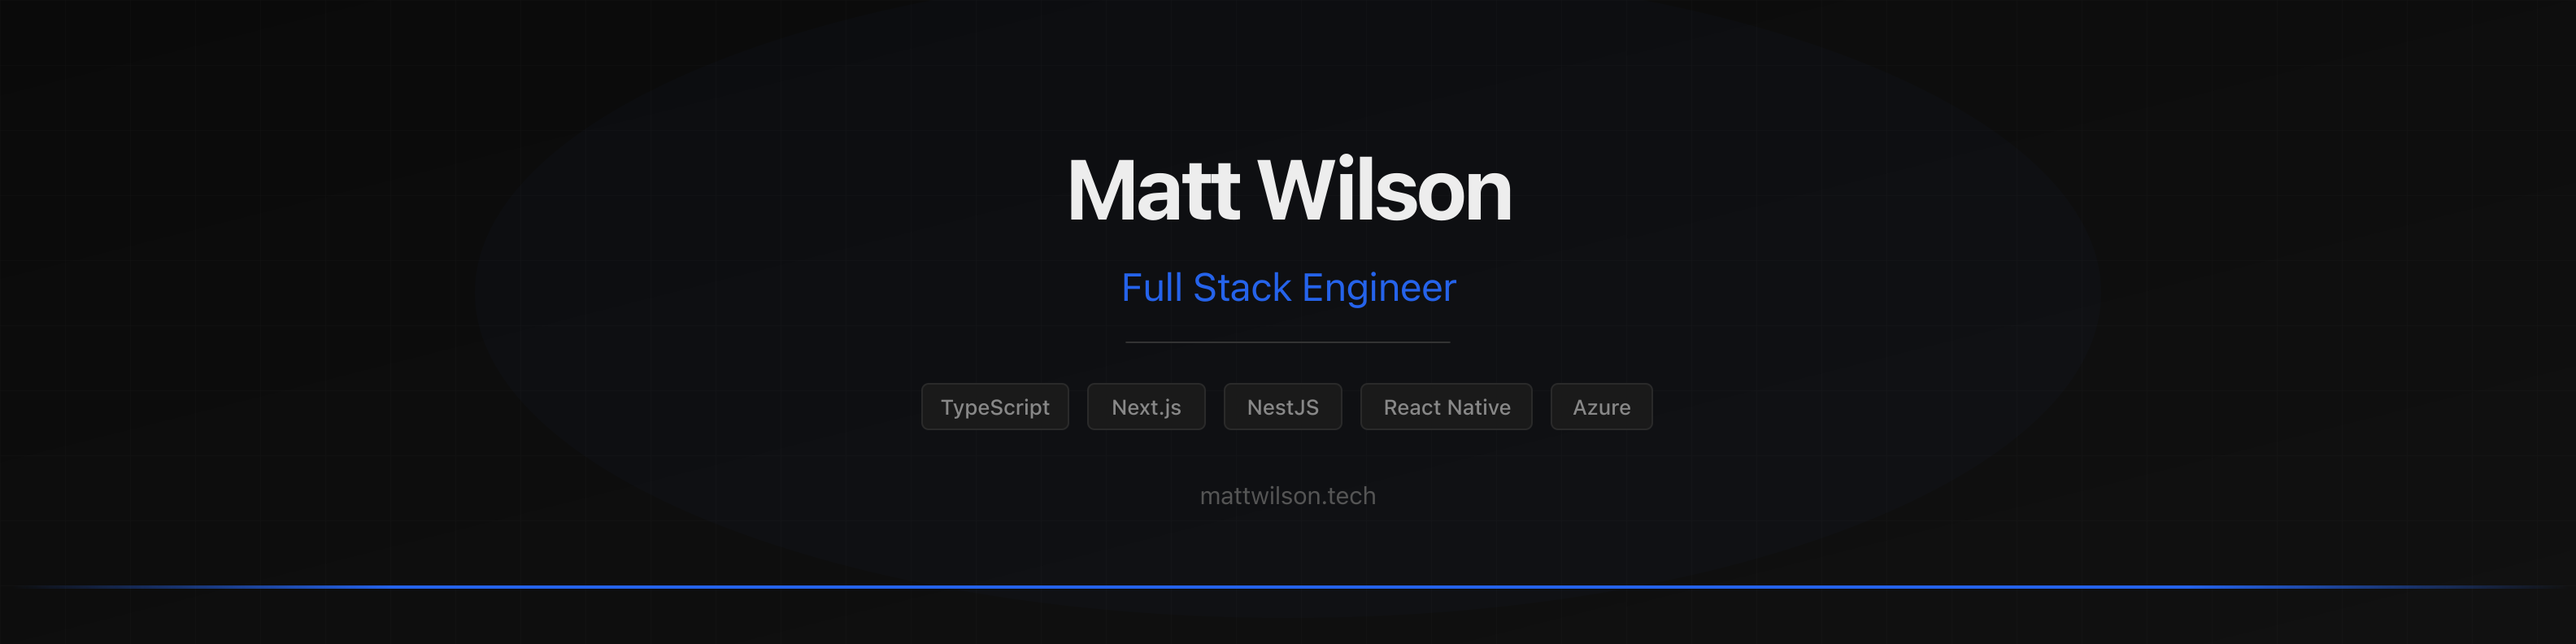
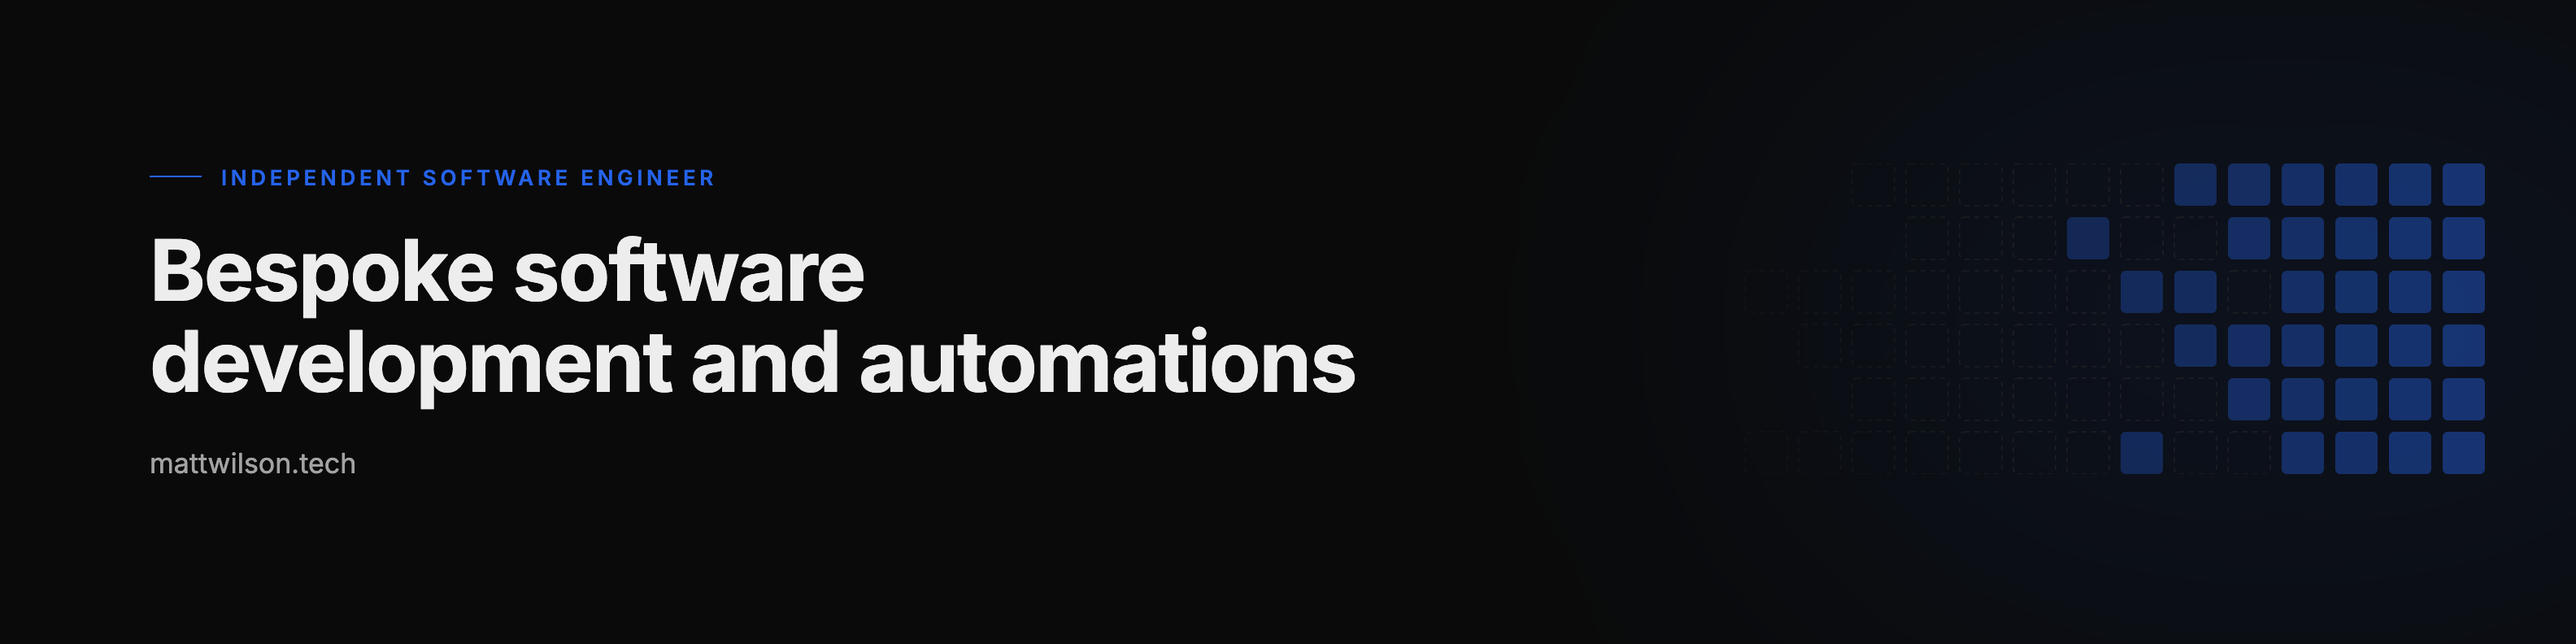
feat: terms panel, mobile hero, and a screenshot script that tells the truth
How-it-works is now built like a code block — a header strip carrying the
label and the copy action, then the content. The copy control belongs on
the thing being copied; floating below the table it read as an orphan.
Point labels are accent, cells sit a shade lighter on hairline dividers
so the panel reads as a raised object rather than a grid drawn on the
background.

Mobile: the hero bloom and motif were desktop-only, so phones got flat
black. Both render at every size now — motif top-right at lower opacity
on small screens, centre-right at full strength from lg. The wall's setup
paragraph is cut back and body copy drops to text-base on mobile.

scripts/shot.ts screenshots the local site at any viewport, because the
browser extension won't resize below desktop and mobile is where most
traffic from a LinkedIn post lands. Uses a tall viewport rather than
fullPage — fullPage resizes at capture time, which resets framer-motion's
revealed elements and returns a page of empty boxes.

Also scripts/generate-linkedin-cover.ts, matching the site's palette and
motif. Both fall back to system Chrome; Puppeteer's bundled one was never
downloaded.

Claude-Session: https://claude.ai/code/session_01JyfXGq2AXu9KwqHzD3tkaw

diff --git a/scripts/generate-linkedin-cover.ts b/scripts/generate-linkedin-cover.ts
@@ -1,0 +1,125 @@
+/**
+ * Generates public/linkedin-cover.png at 1584x396 (LinkedIn's cover size).
+ *
+ * Rendered through Puppeteer rather than the bitmap-font canvas so it uses
+ * real Inter and matches the site exactly. Reuses the site's palette and the
+ * hero's resolving-grid motif, so the two surfaces read as one thing.
+ *
+ * Run: npx tsx scripts/generate-linkedin-cover.ts
+ */
+import puppeteer from "puppeteer";
+import { writeFileSync } from "fs";
+import { join } from "path";
+import { existsSync } from "fs";
+
+/** Puppeteer's bundled Chrome isn't downloaded here (postinstall is skipped to
+ *  keep CI fast), so fall back to the system install. */
+const SYSTEM_CHROME =
+  "/Applications/Google Chrome.app/Contents/MacOS/Google Chrome";
+
+const W = 1584;
+const H = 396;
+
+const BG = "#0a0a0a";
+const FG = "#ededed";
+const MUTED = "#a3a3a3";
+const ACCENT = "#2563eb";
+const BORDER = "#262626";
+
+/** Same motif as the site hero: hairline cells resolving into solid ones. */
+function motif(): string {
+  const COLS = 16;
+  const ROWS = 6;
+  const CELL = 26;
+  const GAP = 7;
+  const cells: string[] = [];
+
+  for (let row = 0; row < ROWS; row++) {
+    for (let col = 0; col < COLS; col++) {
+      const t = col / (COLS - 1);
+      const jitter = ((row * 7 + col * 13) % 10) / 10;
+      const solid = t > 0.45 + jitter * 0.45;
+      const visible = t > 0.08 + jitter * 0.25;
+      if (!visible) continue;
+
+      const x = col * (CELL + GAP);
+      const y = row * (CELL + GAP);
+      cells.push(
+        solid
+          ? `<rect x="${x}" y="${y}" width="${CELL}" height="${CELL}" rx="3" fill="${ACCENT}" opacity="${(0.12 + t * 0.3).toFixed(2)}"/>`
+          : `<rect x="${x}" y="${y}" width="${CELL}" height="${CELL}" rx="3" fill="none" stroke="${BORDER}" stroke-width="1" stroke-dasharray="3 3" opacity="0.55"/>`,
+      );
+    }
+  }
+
+  const w = COLS * (CELL + GAP) - GAP;
+  const h = ROWS * (CELL + GAP) - GAP;
+
+  return `<svg width="${w}" height="${h}" viewBox="0 0 ${w} ${h}" fill="none" xmlns="http://www.w3.org/2000/svg">
+    <defs>
+      <linearGradient id="fade" x1="0" y1="0" x2="1" y2="0">
+        <stop offset="0%" stop-color="white" stop-opacity="0"/>
+        <stop offset="45%" stop-color="white" stop-opacity="1"/>
+      </linearGradient>
+      <mask id="m"><rect width="${w}" height="${h}" fill="url(#fade)"/></mask>
+    </defs>
+    <g mask="url(#m)">${cells.join("")}</g>
+  </svg>`;
+}
+
+const html = `<!doctype html>
+<html><head><meta charset="utf-8">
+<link rel="preconnect" href="https://fonts.googleapis.com">
+<link rel="preconnect" href="https://fonts.gstatic.com" crossorigin>
+<link href="https://fonts.googleapis.com/css2?family=Inter:wght@400;600;700&display=swap" rel="stylesheet">
+<style>
+  * { margin:0; padding:0; box-sizing:border-box; }
+  body {
+    width:${W}px; height:${H}px; background:${BG}; color:${FG};
+    font-family:'Inter',-apple-system,sans-serif;
+    display:flex; align-items:center; position:relative; overflow:hidden;
+  }
+  /* accent bloom, same as the site hero */
+  .bloom {
+    position:absolute; right:-140px; top:50%; transform:translateY(-50%);
+    width:640px; height:380px; border-radius:9999px;
+    background:${ACCENT}; opacity:0.09; filter:blur(120px);
+  }
+  .motif { position:absolute; right:56px; top:50%; transform:translateY(-50%); }
+  .content { position:relative; padding-left:92px; max-width:900px; }
+  .eyebrow { display:flex; align-items:center; gap:12px; margin-bottom:22px; }
+  .rule { width:32px; height:1px; background:${ACCENT}; }
+  .eyebrow span {
+    font-size:13px; font-weight:600; letter-spacing:0.18em;
+    text-transform:uppercase; color:${ACCENT};
+  }
+  h1 { font-size:52px; font-weight:700; line-height:1.08; letter-spacing:-0.02em; }
+  .url { margin-top:24px; font-size:17px; color:${MUTED}; }
+</style></head>
+<body>
+  <div class="bloom"></div>
+  <div class="motif">${motif()}</div>
+  <div class="content">
+    <div class="eyebrow"><span class="rule"></span><span>Independent software engineer</span></div>
+    <h1>Bespoke software<br/>development and automations</h1>
+    <div class="url">mattwilson.tech</div>
+  </div>
+</body></html>`;
+
+async function main() {
+  const browser = await puppeteer.launch({
+    args: ["--no-sandbox"],
+    ...(existsSync(SYSTEM_CHROME) ? { executablePath: SYSTEM_CHROME } : {}),
+  });
+  const page = await browser.newPage();
+  await page.setViewport({ width: W, height: H, deviceScaleFactor: 2 });
+  await page.setContent(html, { waitUntil: "networkidle0" });
+  const buf = await page.screenshot({ type: "png" });
+  await browser.close();
+
+  const out = join(process.cwd(), "public", "linkedin-cover.png");
+  writeFileSync(out, buf);
+  console.log(`\u2713 ${out} \u2014 ${W}x${H} @2x`);
+}
+
+main();

diff --git a/src/components/how-this-works.tsx b/src/components/how-this-works.tsx
@@ -10,6 +10,17 @@ import {
 import { CopySummary } from "./copy-summary";
 import { howThisWorksData } from "@/data/how-this-works";
 
+/**
+ * The terms panel.
+ *
+ * Built like a code block: a header strip carrying the label and the copy
+ * action, then the content. The copy control belongs *on* the thing being
+ * copied — as a button floating below the table it read as an orphan and
+ * nobody would know what it referred to.
+ *
+ * Cells sit a shade lighter than the page on hairline dividers, so the panel
+ * reads as a raised object rather than a flat grid drawn on the background.
+ */
 export function HowThisWorks() {
   const prefersReducedMotion = useReducedMotion();
 
@@ -28,20 +39,34 @@ export function HowThisWorks() {
           {howThisWorksData.heading}
         </motion.h2>
 
-        <dl className="mt-10 grid grid-cols-1 gap-px overflow-hidden rounded-lg border border-[var(--color-border)] bg-[var(--color-border)] md:grid-cols-2">
-          {howThisWorksData.points.map((point) => (
-            <motion.div
-              key={point.label}
-              variants={itemVariants}
-              className="bg-[var(--color-background)] p-6"
-            >
-              <dt className="font-semibold">{point.label}</dt>
-              <dd className="mt-2 leading-relaxed text-[var(--color-muted)]">
-                {point.body}
-              </dd>
-            </motion.div>
-          ))}
-        </dl>
+        <motion.div
+          variants={itemVariants}
+          className="mt-10 overflow-hidden rounded-xl border border-[var(--color-border)] shadow-[0_1px_0_0_rgba(255,255,255,0.04)_inset,0_16px_40px_-24px_rgba(0,0,0,0.9)]"
+        >
+          {/* Header strip — label left, copy action right */}
+          <div className="flex items-center justify-between gap-4 border-b border-[var(--color-border)] bg-[var(--color-card)] px-5 py-3">
+            <span className="text-xs font-semibold uppercase tracking-[0.16em] text-[var(--color-muted)]">
+              The terms
+            </span>
+            <CopySummary text={howThisWorksData.forwardableSummary} />
+          </div>
+
+          <dl className="grid grid-cols-1 gap-px bg-[var(--color-border)] md:grid-cols-2">
+            {howThisWorksData.points.map((point) => (
+              <div
+                key={point.label}
+                className="group bg-[var(--color-card)] p-6 transition-colors hover:bg-[var(--color-background)]"
+              >
+                <dt className="font-semibold text-[var(--color-accent)]">
+                  {point.label}
+                </dt>
+                <dd className="mt-2 leading-relaxed text-[var(--color-muted)]">
+                  {point.body}
+                </dd>
+              </div>
+            ))}
+          </dl>
+        </motion.div>
 
         <motion.p
           variants={itemVariants}
@@ -49,10 +74,6 @@ export function HowThisWorks() {
         >
           {howThisWorksData.intro}
         </motion.p>
-
-        <motion.div variants={itemVariants} className="mt-8">
-          <CopySummary text={howThisWorksData.forwardableSummary} />
-        </motion.div>
       </motion.div>
     </Section>
   );

diff --git a/src/components/copy-summary.tsx b/src/components/copy-summary.tsx
@@ -5,8 +5,8 @@ import { useState } from "react";
 const CopyIcon = () => (
   <svg
     xmlns="http://www.w3.org/2000/svg"
-    width="15"
-    height="15"
+    width="14"
+    height="14"
     viewBox="0 0 24 24"
     fill="none"
     stroke="currentColor"
@@ -23,8 +23,8 @@ const CopyIcon = () => (
 const TickIcon = () => (
   <svg
     xmlns="http://www.w3.org/2000/svg"
-    width="15"
-    height="15"
+    width="14"
+    height="14"
     viewBox="0 0 24 24"
     fill="none"
     stroke="currentColor"
@@ -40,12 +40,12 @@ const TickIcon = () => (
 /**
  * The forwardable summary, as an action rather than a paragraph.
  *
- * It restates the points above it, which is exactly right for something being
- * pasted to someone who has never seen the page — and pure bloat when printed
+ * It restates the terms it sits above, which is exactly right for something
+ * pasted to someone who has never seen the page — and pure bloat printed
  * underneath the list it repeats. So it lives on the clipboard instead.
  *
- * It's also the one interaction on the page that admits what the section is
- * for: the reader isn't the decision-maker, they're the person who has to
+ * It's also the one interaction that admits what the section is for: the
+ * reader usually isn't the decision-maker, they're the person who has to
  * convince one.
  */
 export function CopySummary({ text }: { text: string }) {
@@ -67,10 +67,11 @@ export function CopySummary({ text }: { text: string }) {
       type="button"
       onClick={copy}
       aria-live="polite"
-      className="inline-flex items-center gap-2 rounded-md border border-[var(--color-border)] px-4 py-2.5 text-sm font-medium text-[var(--color-muted)] transition-colors hover:border-[var(--color-accent)] hover:text-[var(--color-foreground)] focus-visible:outline-none focus-visible:ring-2 focus-visible:ring-[var(--color-accent)]"
+      title="Copy a short summary of these terms"
+      className="inline-flex shrink-0 items-center gap-1.5 rounded-md px-2.5 py-1.5 text-xs font-medium text-[var(--color-muted)] transition-colors hover:bg-[var(--color-background)] hover:text-[var(--color-foreground)] focus-visible:outline-none focus-visible:ring-2 focus-visible:ring-[var(--color-accent)]"
     >
       {copied ? <TickIcon /> : <CopyIcon />}
-      {copied ? "Copied" : "Copy this as a summary"}
+      {copied ? "Copied" : "Copy summary"}
     </button>
   );
 }

diff --git a/scripts/shot.ts b/scripts/shot.ts
@@ -1,0 +1,50 @@
+/**
+ * Screenshot the local site at a given viewport.
+ *
+ * Exists because the browser extension refuses to resize below desktop width,
+ * which left mobile unverifiable — and mobile is where most traffic from a
+ * LinkedIn post lands.
+ *
+ * Usage:
+ *   npx tsx scripts/shot.ts                    # iPhone width, home, full page
+ *   npx tsx scripts/shot.ts /blog 1280         # a path and a width
+ */
+import puppeteer from "puppeteer";
+import { existsSync } from "fs";
+
+const SYSTEM_CHROME =
+  "/Applications/Google Chrome.app/Contents/MacOS/Google Chrome";
+
+const path = process.argv[2] ?? "/";
+const width = Number(process.argv[3] ?? 390);
+const out = `/Users/matt/Downloads/shot-${width}w${path.replace(/\//g, "-")}.png`;
+
+async function main() {
+  const browser = await puppeteer.launch({
+    args: ["--no-sandbox"],
+    ...(existsSync(SYSTEM_CHROME) ? { executablePath: SYSTEM_CHROME } : {}),
+  });
+  const page = await browser.newPage();
+  // Tall viewport instead of fullPage: capturing fullPage resizes the
+  // viewport, which resets framer-motion's revealed elements and returns a
+  // page of empty boxes. Everything is in view from the start this way.
+  await page.setViewport({ width, height: 6000, deviceScaleFactor: 2 });
+  await page.goto(`http://localhost:3000${path}`, { waitUntil: "networkidle0" });
+  // Scroll the whole page first — the reveal animations are driven by an
+  // intersection observer, so anything never scrolled past stays at opacity 0
+  // and a full-page capture comes back blank.
+  await page.evaluate(async () => {
+    const step = window.innerHeight / 2;
+    for (let y = 0; y < document.body.scrollHeight; y += step) {
+      window.scrollTo(0, y);
+      await new Promise((r) => setTimeout(r, 120));
+    }
+    window.scrollTo(0, 0);
+  });
+  await new Promise((r) => setTimeout(r, 800));
+  await page.screenshot({ path: out });
+  await browser.close();
+  console.log(out);
+}
+
+main();

diff --git a/src/data/wall.ts b/src/data/wall.ts
@@ -27,11 +27,11 @@ export const wallData: WallData = {
   heading: "The idea isn't the hard part.",
 
   body: [
-    "You already know what the business needs. You've watched the problem for long enough to see exactly where the time goes, and you've probably worked out how you'd fix it — a document, a spreadsheet that half does the job, or something you've had a go at building yourself.",
+    "You already know what the business needs, and roughly how you'd fix it. A document, a spreadsheet that half does the job, or something you've had a go at building yourself.",
 
-    "Getting from there to something people open every morning is a different kind of work. Somewhere for it to live, accounts and permissions, a database holding real records, and all of it still standing on the days nobody is thinking about it.",
+    "Getting from there to something people open every morning is a different kind of work. Somewhere for it to live, accounts and permissions, a database holding real records — and all of it still standing on the days nobody is thinking about it.",
 
-    "And that part isn't really about hours. It's whose name sits against it the first time it touches real money or real records, and who picks up the phone when it breaks. Weighed against a job you already don't have enough time for, that's usually where a good idea stops.",
+    "And that part isn't really about hours. It's whose name sits against it the first time it touches real money, and who picks up the phone when it breaks. Weighed against a job you already don't have enough time for, that's usually where a good idea stops.",
   ],
 
   kicker: "That's the part I take off you — the burden, not just the stack.",

diff --git a/src/components/hero.tsx b/src/components/hero.tsx
@@ -4,6 +4,11 @@ import { HeroMotif } from "./hero-motif";
 /**
  * Above the fold.
  *
+ * The bloom and the motif render at every size — they were desktop-only, which
+ * left phones looking at flat black. On small screens the motif sits top-right
+ * at lower opacity so it reads as texture behind the type; from lg it moves to
+ * centre-right at full strength where there's room for it.
+ *
  * No CTA — "Book a call" is persistent in the nav. Not animated and no client
  * JavaScript, so the headline is there on first paint.
  */
@@ -13,11 +18,10 @@ export function Hero() {
       id="home"
       className="relative overflow-hidden border-b border-[var(--color-border)] pb-16 pt-20 md:pb-24 md:pt-28"
     >
-      {/* Soft accent bloom behind the motif — gives the right side some depth
-          instead of flat black. Decorative only. */}
+      {/* Accent bloom — depth instead of flat black. Decorative only. */}
       <div
         aria-hidden="true"
-        className="pointer-events-none absolute -right-40 top-1/2 hidden h-[420px] w-[620px] -translate-y-1/2 rounded-full bg-[var(--color-accent)] opacity-[0.07] blur-[110px] lg:block"
+        className="pointer-events-none absolute -right-32 top-0 h-[320px] w-[420px] rounded-full bg-[var(--color-accent)] opacity-[0.10] blur-[90px] sm:-right-24 lg:-right-40 lg:top-1/2 lg:h-[420px] lg:w-[620px] lg:-translate-y-1/2 lg:opacity-[0.07] lg:blur-[110px]"
       />
 
       <div className="relative mx-auto w-full max-w-5xl px-6">

diff --git a/src/components/wall.tsx b/src/components/wall.tsx
@@ -19,7 +19,7 @@ export function Wall() {
         initial={prefersReducedMotion ? false : "hidden"}
         whileInView="visible"
         viewport={revealViewport}
-        className="max-w-3xl"
+        className="max-w-2xl lg:max-w-3xl"
       >
         <motion.h2
           variants={itemVariants}
@@ -28,12 +28,12 @@ export function Wall() {
           {wallData.heading}
         </motion.h2>
 
-        <div className="flex flex-col gap-5">
+        <div className="flex flex-col gap-6">
           {wallData.body.map((para, i) => (
             <motion.p
               key={i}
               variants={itemVariants}
-              className="text-lg leading-relaxed text-[var(--color-muted)]"
+              className="text-base leading-relaxed text-[var(--color-muted)] md:text-lg"
             >
               {para}
             </motion.p>
@@ -42,7 +42,7 @@ export function Wall() {
 
         <motion.p
           variants={itemVariants}
-          className="mt-10 border-l-2 border-[var(--color-accent)] pl-5 text-xl font-medium leading-relaxed text-[var(--color-foreground)] md:text-2xl"
+          className="mt-10 border-l-2 border-[var(--color-accent)] pl-5 text-lg font-medium leading-relaxed text-[var(--color-foreground)] md:text-2xl"
         >
           {wallData.kicker}
         </motion.p>

diff --git a/src/components/hero-motif.tsx b/src/components/hero-motif.tsx
@@ -58,7 +58,7 @@ export function HeroMotif() {
   return (
     <div
       aria-hidden="true"
-      className="pointer-events-none absolute right-0 top-1/2 hidden -translate-y-1/2 select-none lg:block"
+      className="pointer-events-none absolute -right-16 -top-6 select-none opacity-40 sm:-right-8 lg:right-0 lg:top-1/2 lg:-translate-y-1/2 lg:opacity-100"
     >
       <svg
         width={width}
